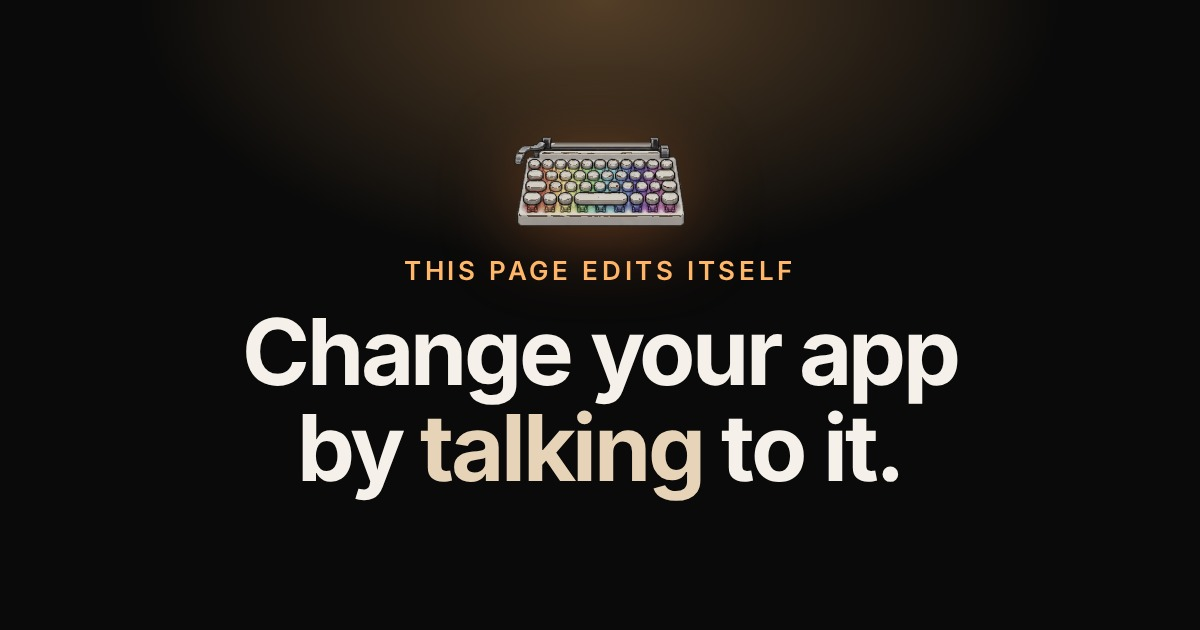
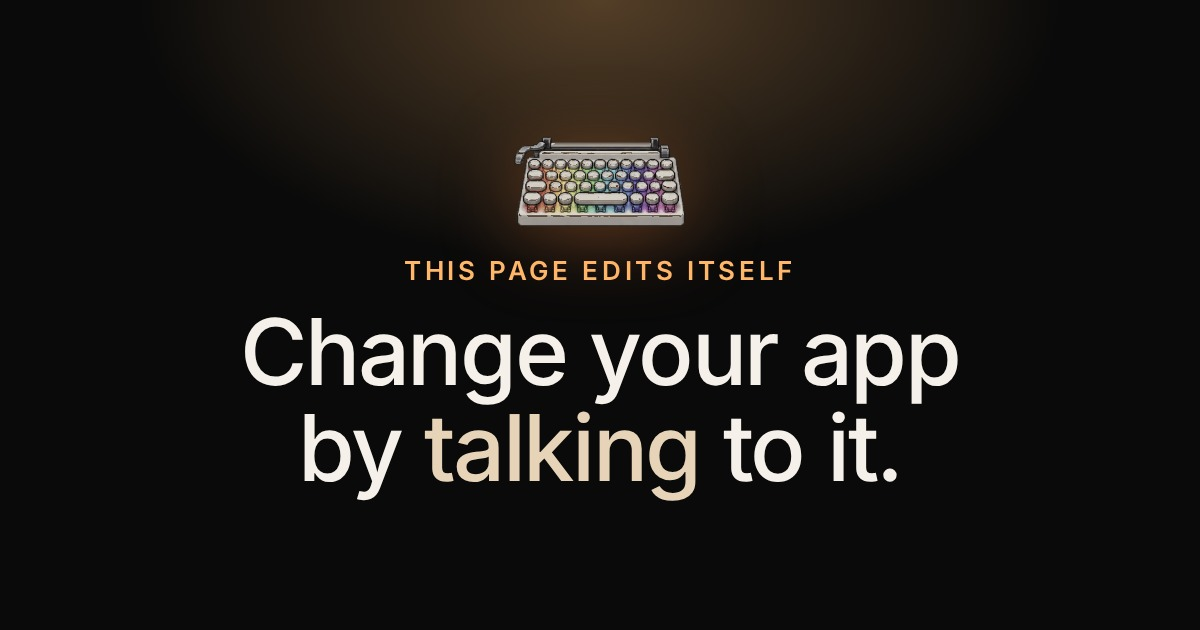
Headings at Inter 500
Lingz found the 700 headline too heavy and picked 500 from a side-by-side
of 700/600/500. h1 700 -> 500 (tracking -.035em -> -.025em) and h2
600 -> 500 (-.025em -> -.02em) so the sections match; 500 was already in the
Inter request, so nothing new loads. The share card is re-rendered at the
same weight (?v=5), and CLAUDE.md's typography note says 500.

Changed region(s): [[0.2158, 0.5127, 0.8017, 0.7841], [0.185, 0.5429, 0.2158, 0.573]]

diff --git a/site/index.html b/site/index.html
@@ -22,8 +22,8 @@
 <meta property="og:title" content="Agent Keyboard" />
 <meta property="og:description" content="Ask for a change, right where you're looking. A real Claude Code session edits your codebase and commits it. Open source, self-hosted, your keys, MIT." />
 <meta property="og:url" content="https://agentkeyboard.com/" />
-<meta property="og:image" content="https://agentkeyboard.com/og-twitter-card.jpg?v=4" />
-<meta property="og:image:secure_url" content="https://agentkeyboard.com/og-twitter-card.jpg?v=4" />
+<meta property="og:image" content="https://agentkeyboard.com/og-twitter-card.jpg?v=5" />
+<meta property="og:image:secure_url" content="https://agentkeyboard.com/og-twitter-card.jpg?v=5" />
 <meta property="og:image:type" content="image/jpeg" />
 <meta property="og:image:width" content="1200" />
 <meta property="og:image:height" content="630" />
@@ -31,7 +31,7 @@
 <meta name="twitter:card" content="summary_large_image" />
 <meta name="twitter:title" content="Agent Keyboard" />
 <meta name="twitter:description" content="Ask for a change, right where you're looking. A real Claude Code session edits your codebase and commits it. Open source, self-hosted, your keys, MIT." />
-<meta name="twitter:image" content="https://agentkeyboard.com/og-twitter-card.jpg?v=4" />
+<meta name="twitter:image" content="https://agentkeyboard.com/og-twitter-card.jpg?v=5" />
 <meta name="twitter:image:alt" content="Agent Keyboard prompt bar editing a live app" />
 
 <link rel="preconnect" href="https://fonts.googleapis.com">
@@ -114,7 +114,7 @@ a:hover{ color:var(--amber); }
 @keyframes breathe{ 0%,100%{ transform:scale(1); } 50%{ transform:scale(1.05); } }
 .eyebrow{ font-size:12px; font-weight:600; letter-spacing:.14em; text-transform:uppercase; color:var(--amber); margin-bottom:20px; }
 h1{
-  font-weight:700; letter-spacing:-.035em;
+  font-weight:500; letter-spacing:-.025em;
   font-size:clamp(36px, 6.4vw, 64px); line-height:1.05; margin:0 auto; max-width:13em; text-wrap:balance;
 }
 h1 em{ font-style:normal; color:var(--warm); }
@@ -163,7 +163,7 @@ section{ padding:58px 0; }
   .why .kicker, .why h2, .why .sub{ text-align:left; margin-left:0; }
 }
 .kicker{ font-size:11.5px; font-weight:600; letter-spacing:.14em; text-transform:uppercase; color:var(--ink-3); margin-bottom:14px; text-align:center; }
-h2{ font-weight:600; letter-spacing:-.025em; font-size:clamp(26px,4.2vw,36px); line-height:1.12; text-align:center; max-width:22em; margin:0 auto; text-wrap:balance; }
+h2{ font-weight:500; letter-spacing:-.02em; font-size:clamp(26px,4.2vw,36px); line-height:1.12; text-align:center; max-width:22em; margin:0 auto; text-wrap:balance; }
 h2 em{ font-style:normal; color:var(--warm); }
 .sub{ max-width:60ch; margin:18px auto 0; text-align:center; color:var(--ink-2); font-size:16px; }
 .sub code{ font-family:var(--mono); font-size:.84em; color:var(--amber); }

diff --git a/CLAUDE.md b/CLAUDE.md
@@ -131,7 +131,7 @@ the corner **rectangle**, which carries one line of status and becomes the strea
 live **ticker**) while a job runs.
 
 ### Typography
-- **Inter** — the marketing site's only text face: headings (bold, tight tracking,
+- **Inter** — the marketing site's only text face: headings (weight 500 since 2026-09-25, tight tracking,
   `text-wrap:balance`, no italics — `<em>` accents are colour only), body, labels, buttons.
 - **JetBrains Mono** — code only on the site (install snippet, inline `code`, repo names), and
   the widget's terminal surface (transcript, status ticker, the mm:ss timer).
